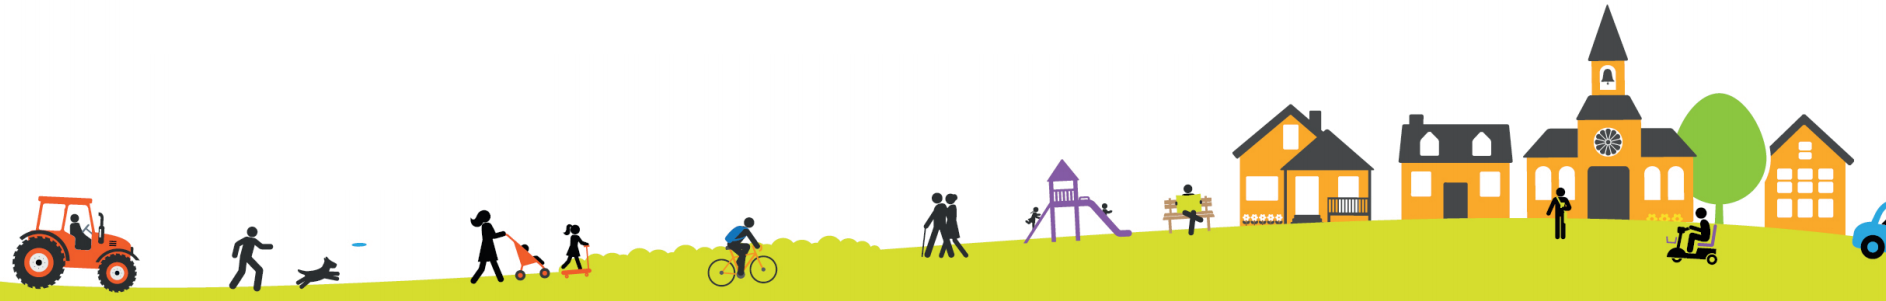
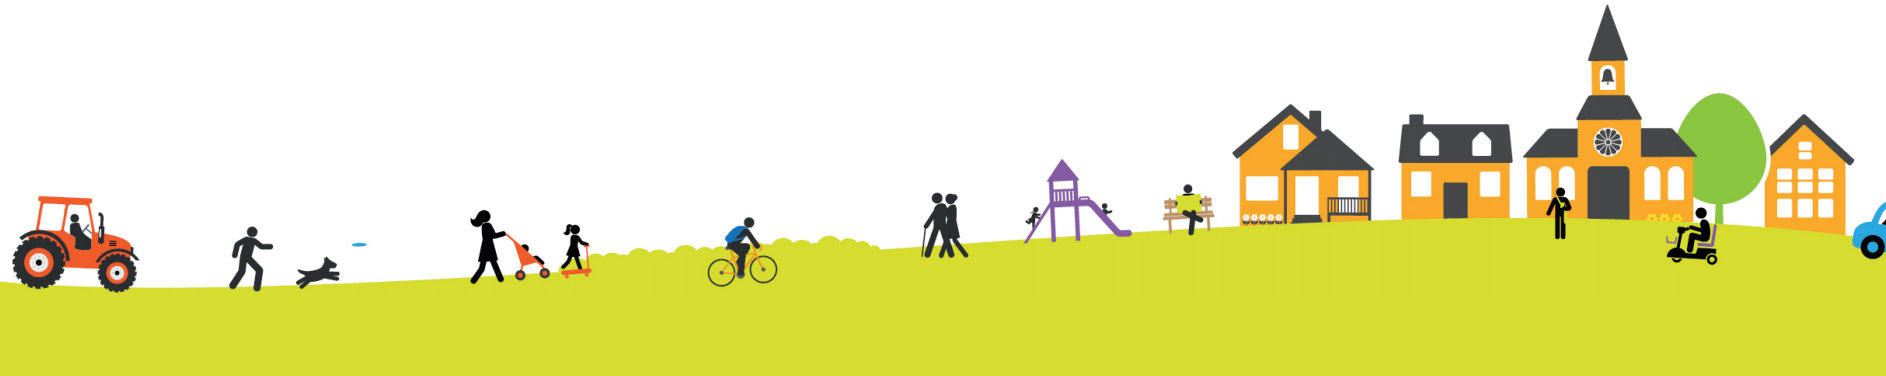
more mpower styling

Changed region(s): [[0.0, 0.0598, 1.0, 0.9568], [0.1845, 0.6279, 0.2153, 0.6578]]

diff --git a/sites/mpowerhealth/main.scss b/sites/mpowerhealth/main.scss
@@ -12,9 +12,10 @@ $mdc-theme-secondary: #E0E0E0; // Gray 300
 $mdc-theme-secondary-light: #F5F5F5; // Gray 100
 $mdc-theme-secondary-dark: #212121; // Gray 900
 
-$mdc-theme-footer: #D5DB47;
+$mdc-theme-footer: #d6dd2e;
 
 $unit: 1rem;
+$page-width: 1000px;
 
 @import "./node_modules/material-components-web/material-components-web.scss";
 @import "./lib/common-styles.scss";
@@ -32,6 +33,44 @@ strong {
   color: #fff;
   background: $mdc-theme-primary-dark;
 }
+img {
+  max-width: 100%;
+}
+
+a:link {
+  color: $mdc-theme-blue;
+}
+a:hover,
+a:active,
+a:focus {
+  color: $mdc-theme-orange-dark;
+}
+a:visited {
+  color: $mdc-theme-purple;
+}
+
+.mdc-typography {
+  background-color: white;
+  background-repeat: no-repeat;
+  background-position: top;
+  background-size: contain;
+}
+
+header,
+main,
+footer .footer-main {
+  margin-left: 11vw;
+}
+header {
+  max-width: $page-width;
+  padding-top: $unit*6;
+  .mdc-top-app-bar__section--logo {
+    margin-left: -3.5rem;
+  }
+}
+footer .footer-main {
+  max-width: $page-width;
+}
 
 .container-fluid {
   box-sizing: border-box;
@@ -40,20 +79,23 @@ strong {
   margin: 0 auto; // padding: 0 1.5rem;
 }
 .container-content {
-  max-width: 960px;
-  margin-left: 4.5rem;
+  max-width: $page-width;
+  // margin-left: 4.5rem;
 }
 .mdc-top-app-bar__lower .mdc-top-app-bar__section {
-  margin-left: 3.5rem;
+  // margin-left: 3.5rem;
 }
 
 .mdc-top-app-bar {
+  height: auto;
+  width: auto;
   position: relative;
   background-color: transparent;
 }
 header {
   .container-fluid {
     .mdc-top-app-bar__upper {
+      height: auto;
       background-color: transparent;
       // .mdc-top-app-bar__section {
       //   background-color: $mdc-theme-primary;
@@ -101,26 +143,32 @@ header {
       .mdc-top-app-bar__title:hover {
         text-decoration: none;
       }
+      .mdc-top-app-bar__navigation-icon {
+        color: $mdc-theme-green;
+      }
     }
     .mdc-tab {
+      padding: 0 !important;
       .mdc-tab__text-label {
         color: $mdc-theme-primary-dark !important;
+        border-right: 2px solid $mdc-theme-footer;
+        padding: 0 $unit*(3/4);
       }
+    }
+    .mdc-tab:first-child {
+      padding-left: $unit/4 !important;
+    }
+    .mdc-tab:last-child .mdc-tab__text-label {
+      border-right: none;
     }
     .mdc-tab--active,
     .mdc-tab:hover {
       .mdc-tab__text-label {
-        border-bottom-color: $mdc-theme-primary-dark !important;
+        color: $mdc-theme-blue !important;
+        // border-bottom-color: $mdc-theme-primary-dark !important;
       }
     }
   }
-}
-
-.mdc-typography {
-  background-color: white;
-  background-repeat: no-repeat;
-  background-position: top;
-  background-size: contain;
 }
 
 h1, h2, h3, h4, h5, p, div, li {
@@ -549,6 +597,9 @@ h1, h2, h3, h4, h5, p, div, li {
 
 footer.mdc-layout__footer {
   border-top: none;
+  background-size: contain;
+  background-repeat: no-repeat;
+  background-position: bottom right;
   background-color: #fff;
   box-shadow: none;
   h3 {
@@ -583,12 +634,9 @@ footer.mdc-layout__footer {
     }
   }
   .footer-main {
-    background-size: contain;
-    background-repeat: no-repeat;
     margin-bottom: 0;
     padding-bottom: $unit*8;
-    background-position: bottom right;
-    background-color: white;
+    background-color: transparent;
     min-height: 260px;
     .partner-logos {
       max-width: 820px;
@@ -599,7 +647,7 @@ footer.mdc-layout__footer {
     }
   }
   .footer-copyright {
-    background-color: $mdc-theme-footer;
+    background-color: transparent;
     p,
     a {
       color: $mdc-theme-secondary-dark;
